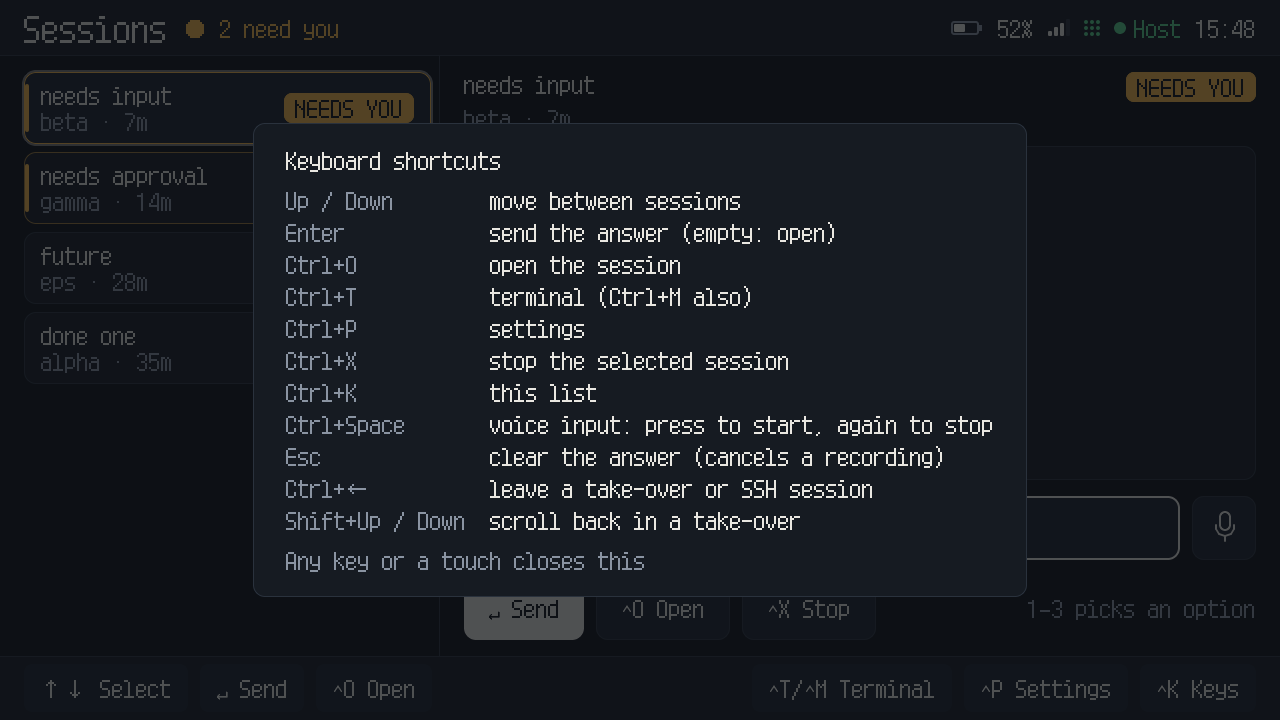
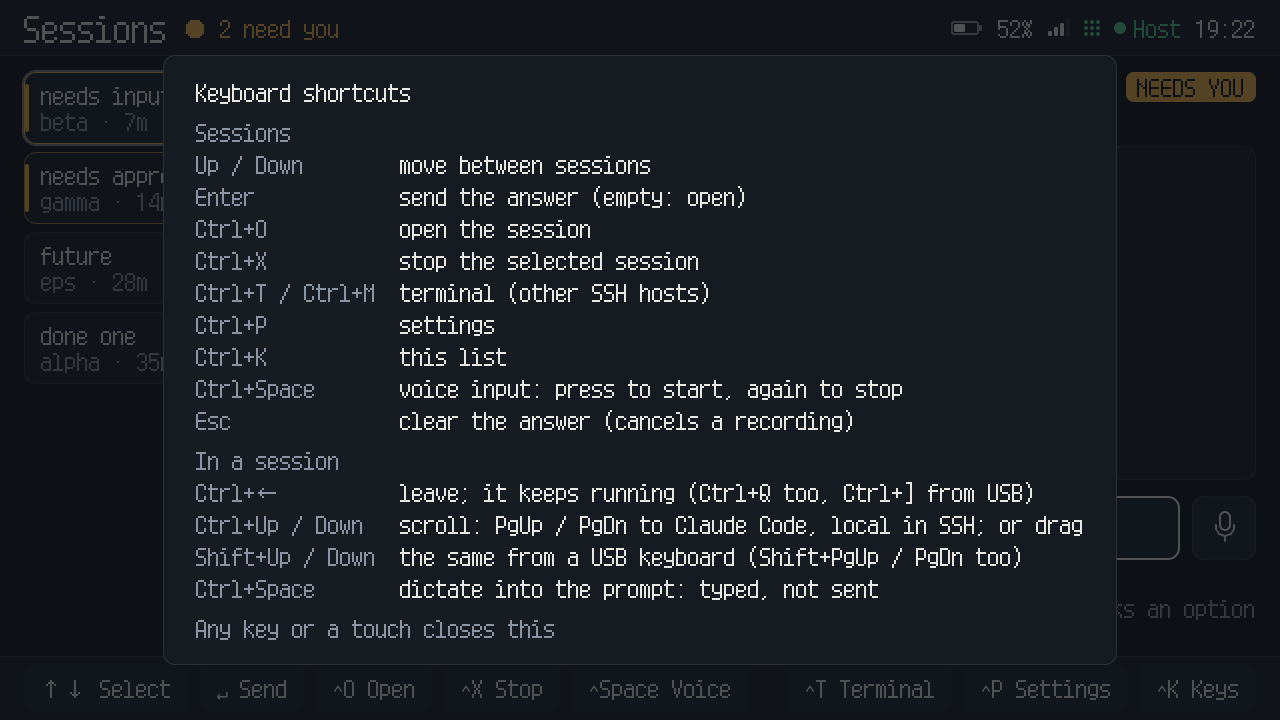
docs: the shortcut tables in two parts with their touch chips, and refreshed screenshots
README: the Sessions table and the In a session table, as Ctrl+K shows them, each with its
footer or bar chip; a paragraph on how the footer follows the keyboard and the voice input, and on
the opening banner; "⌃T Terminal" for the footer chip. The keyboard-shortcuts, sessions and
voice-recording images are taken from a clean preview build (ctrlk, sessions screen-log, sessions
voice-rec). They show only sample data.

diff --git a/README.md b/README.md
@@ -547,23 +547,36 @@ Dictate an answer instead of typing it. This needs the one-time
 
 ### Keyboard shortcuts
 
-On the Sessions screen (**Ctrl+K** shows this list on the device):
+**Ctrl+K** shows this list on the device, in the same two parts.
 
-| Key | Action |
-|---|---|
-| ↑ / ↓ | Move between sessions |
-| Enter | Send the answer; on an empty field, open the session |
-| Ctrl+O | Open the selected session |
-| Ctrl+X | Stop the selected session (asks first; Open starts it again). By touch: ⌃X Stop |
-| Ctrl+T (or Ctrl+M) | Terminal (other SSH hosts) |
-| Ctrl+P | Settings |
-| Ctrl+K | The shortcuts list |
-| Esc | Clear the answer; cancels a recording (Sessions is the home screen: Esc never leaves it) |
-| Ctrl+Space | Voice input: press to start, again to stop (Esc cancels). By touch: the mic, and Cancel |
-| Ctrl+Space (inside a session) | Dictate into the session's prompt; the text is typed, not sent (Ctrl+@ sends NUL). By touch: the bar's Mic chip, and its Esc chip to cancel |
-| Ctrl+← | Leave a take-over or SSH session (Ctrl+Q too; Ctrl+] on a USB keyboard) |
-| Ctrl+↑ / ↓ | Scroll back: in a take-over sends Claude Code PgUp / PgDn; in an SSH session scrolls the Tab5's scrollback (by touch: drag; in an SSH session then the bar's ⇑ ⇓) |
-| Shift+↑ / ↓ | Scroll back in a take-over (USB keyboard; Shift+PgUp / PgDn in an SSH session too) |
+On the Sessions screen:
+
+| Key | Action | By touch (footer) |
+|---|---|---|
+| ↑ / ↓ | Move between sessions | ↑↓ Select: the next session that needs you |
+| Enter | Send the answer; on an empty field, open the session | ↵ Send |
+| Ctrl+O | Open the selected session | ⌃O Open, or tap the selected row |
+| Ctrl+X | Stop the selected session (asks first; Open starts it again) | ⌃X Stop, shown only for a running session |
+| Ctrl+T (or Ctrl+M) | Terminal (other SSH hosts) | ⌃T Terminal |
+| Ctrl+P | Settings | ⌃P Settings |
+| Ctrl+K | The shortcuts list | ⌃K Keys (shown only with a keyboard) |
+| Ctrl+Space | Voice input: press to start, again to stop | ⌃Space Voice, or the mic |
+| Esc | Clear the answer; cancels a recording (Sessions is the home screen: Esc never leaves it) | Esc Cancel, while recording or transcribing |
+
+In a session (a take-over or an SSH session):
+
+| Key | Action | By touch |
+|---|---|---|
+| Ctrl+← | Leave; the session keeps running (Ctrl+Q too; Ctrl+] on a USB keyboard) | the bar's ← Leave |
+| Ctrl+↑ / ↓ | Scroll: in a take-over sends Claude Code PgUp / PgDn; in an SSH session scrolls the Tab5's scrollback | drag (in an SSH session, then the bar's ⇑ ⇓) |
+| Shift+↑ / ↓ | The same from a USB keyboard (take-over only; Shift+PgUp / PgDn in both) | |
+| Ctrl+Space | Dictate into the session's prompt; the text is typed, not sent (Ctrl+@ sends NUL) | the bar's Mic chip, and its Esc chip to cancel |
+
+The footer follows what works. With a keyboard attached each chip starts with its key (⌃X Stop); with
+none it shows plain words (Stop, Voice, Settings) and no Keys chip. While recording it shows only Esc
+Cancel and ⌃Space Stop, and while transcribing only Esc Cancel. When a session opens, its first lines
+list the keys that matter: "Ctrl+← leave · Ctrl+↑↓ scroll · Ctrl+Space dictate" (by touch: tap the
+top of the screen for the bar, drag to scroll, Mic dictates).
 
 In Settings and Terminal, the arrow keys move the focus, Enter chooses and Esc goes back. On a
 question such as Forget, Delete, Disconnect or Stop, Cancel comes first and the arrow keys never move
@@ -690,7 +703,7 @@ can't use `autogroup:member` or a user as `dst` when the source is a tag.)
 
 ## 8. Terminal: other SSH hosts
 
-**Ctrl+T** (or the footer's **⌃T/⌃M Terminal**) opens a list of other machines you can open a
+**Ctrl+T** (or the footer's **⌃T Terminal**) opens a list of other machines you can open a
 plain SSH shell on, over your LAN or tailnet.
 
 - **+ Add host** › **Enter manually**, or **From your tailnet** (online peers, while Tailscale is
